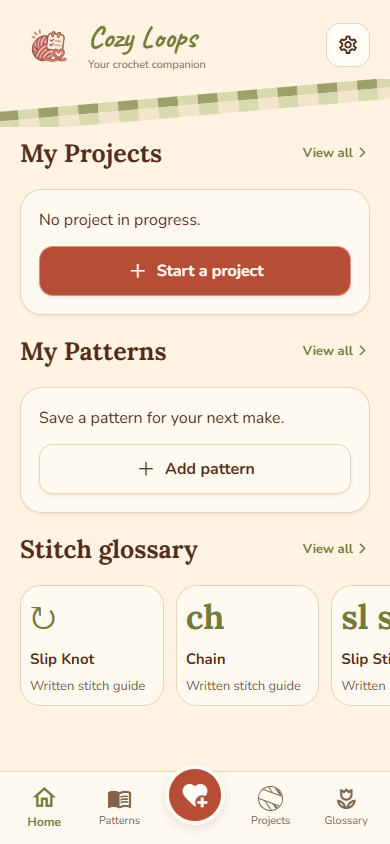
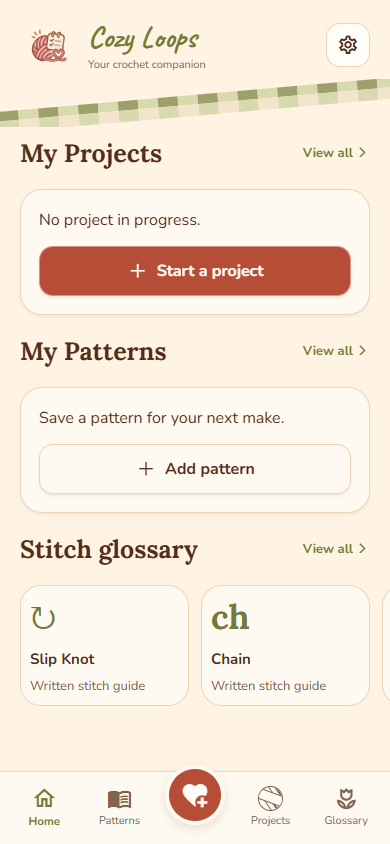
docs: update architecture and acceptance checks for PDF modifications

Changed region(s): [[0.4615, 0.6777, 1.0, 0.8318], [0.0615, 0.9242, 0.1538, 0.9858]]

diff --git a/docs/TESTING.md b/docs/TESTING.md
@@ -2,9 +2,9 @@
 
 Run on both an iOS and Android device or simulator. Record device, OS, app build, result, and any issue. These are checks to perform, not claims of completed device testing.
 
-1. Fresh installation: Home, Patterns, Add pattern, Projects, and Glossary tabs. Settings opens from Home. Projects opens a searchable In progress/Finished library. Continue opens the selected project counter within that tab; Back to library returns to the project list.
+1. Fresh installation: Home, Patterns, Add pattern, Projects, and Glossary tabs. Settings opens from Home. Projects opens a searchable In progress/Finished library. Continue opens the selected project counter within that tab; The icon-only Back returns to Projects, or Home when opened with Home Continue. Browser/system Back should respect the same origin.
 2. Add a pattern manually, with two or more rows. Required fields reject a ready save, while Save draft accepts incomplete content. Reopen the draft and finish it.
-3. Paste multiline instructions. Review one row per nonempty line; correct, merge, split, reorder, remove, and add rows. Confirm replacement of existing rows. Save and edit again.
+3. Paste multiline instructions. Review one row per nonempty line; correct, duplicate, collapse, remove, and add rows. Only one row expands at a time; saved rows begin collapsed. Confirm replacement of existing rows. Save and edit again.
 4. Attempt Back and Android system Back with unsaved changes. Cancel keeps edits; confirming discard exits. Browser refresh should also warn when applicable.
 5. Attach a photo; deny or cancel picking. Verify friendly errors and persistent photos after a native restart.
 6. Start a project. Tap + rapidly 100 times. Without a target, verify exactly 100 recorded stitches; with a target, verify the counter stops at that target. A zero target disables increment immediately. Decrement stops at zero. Repeated Undo restores the preceding actions until the saved history (maximum 100) is exhausted.
@@ -12,7 +12,7 @@ Run on both an iOS and Android device or simulator. Record device, OS, app build
 8. Wait for 'Saved', terminate the app, reopen, and Resume. Verify row, counts, flags, and Undo. Repeat with two projects and independent counts.
 9. Edit or delete the source pattern. Ongoing projects retain their original instructions and photos.
 10. Complete the last row: project stays active until Finish Project confirmation. Cancel leaves it active. Finish moves it to Completed Projects; details remain accessible.
-11. Open a stitch lookup from Work Mode. Search names and US/UK abbreviations, open a guide, Back to lookup, Return to Work Mode. Progress is unchanged.
+11. Open Glossary from the tab bar. Search names and US/UK abbreviations, open a guide, and use the icon-only Back. Return to your counter and verify unchanged progress.
 12. Change terminology and haptic preferences, restart, and verify persistence. Written patterns never change with the terminology setting.
 13. Test airplane mode after installation. All counting, storage, fonts, local photos, and glossary text remain usable. Expo development mode still requires its JS bundle from Metro; use an installed build to establish offline behavior.
 14. Check small screens, 390 px width, large accessibility text, VoiceOver/TalkBack, keyboard-visible forms, safe areas, and 48 dp controls. Counter controls should remain reachable.
@@ -25,7 +25,11 @@ Run on both an iOS and Android device or simulator. Record device, OS, app build
 
 
 20. Save colors, multiple hooks, other tools, part labels and per-row color/hook selections. Reopen and restart; verify details and counters use the saved materials. Editing the source pattern must not change existing project snapshots.
-21. Favorite and unfavorite patterns, restart, and combine favorites with title, draft/ready, and difficulty filters. Verify empty search results and a single grid item remain usable.
+21. Favorite and unfavorite patterns, restart, and combine favorites with title, draft/ready, and status filters. Verify empty search results and a single grid item remain usable.
 22. Open legacy `/projects`, `/project/[id]`, and `/pattern/new` links. Verify the corresponding library, selected counter, and Add tab.
 23. Load a legacy active project with an over-target count and a single Undo snapshot. Confirm the original raw data is backed up before a new write, then verify clamped progress and repeated Undo after restart. Finished legacy projects remain unchanged.
 24. Check reduced motion, tab animations, tab focus on web, native keyboard avoidance, and launcher/splash branding in an installed preview build.
+
+25. Import a valid text PDF on web and both native development builds. Review text, cancel, then import and confirm replacement; verify no automatic save. Check a locked PDF, scanned/image-only PDF, corrupt file, empty file, over-20 MB file, over-100-page PDF, and text over 200,000 characters. Each must show a useful error while keeping existing rows. Try cancelling picking, closing during extraction, and switching import methods. Expo Go must explain the development build requirement and keep Paste Text usable.
+26. Duplicate a row with part, stitch target, yarn color, and hook size. Verify a fresh row ID below the source and sequential numbering. New/duplicate rows expand; Done collapses. Save/reopen starts collapsed. Ready-save validation expands the first empty row. Existing round patterns remain rounds; new patterns use rows. Difficulty must have no visible control or badge while legacy stored metadata survives.
+27. Home Continue fills the card width, centers its text, and has no arrow. The pattern carousel shows exactly two complete cards at rest. Patterns, Projects, and Glossary share header spacing and equal grid-card dimensions. Repeat at 320/390/650 px and with increased text size; no horizontal page overflow.

diff --git a/docs/UI_REDESIGN.md b/docs/UI_REDESIGN.md
@@ -14,24 +14,26 @@ See [design-system decisions](DESIGN_SYSTEM.md) for token mapping, component con
 
 - Five animated navbar destinations: Home, Patterns, Add pattern, Projects, Glossary. Settings is accessible from Home.
 - Branded Home header, larger featured project image, project description, and horizontal pattern/glossary shelves.
-- Two-column virtualized libraries with search; pattern status/difficulty filters and persisted favorites; active/finished project selection.
+- Two-column virtualized libraries with search; pattern status filters and persisted favorites; active/finished project selection.
 - Materials, colors, multiple hooks, tools, part labels, and row-specific selections in the editor, details, and project snapshots. Existing drafts, import review, row tools, and save-error recovery remain available.
-- Projects opens a library; Continue opens its selected nested counter, and Back returns to that library. Legacy project and new-pattern links redirect to the new destinations.
+- Projects opens a library; Continue opens its selected nested counter, and Back returns to Home or Projects according to the entry point. Legacy project and new-pattern links redirect to the new destinations.
 - Target-limited counting and persisted repeated Undo (latest 100 supported actions). Legacy active counts and histories are normalized with an original-data backup before subsequent writes. Finished projects remain unchanged.
 - The supplied artwork is bundled for Home, launcher, splash, and favicon. No example patterns or projects are inserted into initial app data.
 
 ## Verification
 
 - Lint and typecheck passed.
-- All 18 pure-domain tests passed, including targets, zero targets, repeated Undo, history limits, migration, materials, snapshot isolation, serialization, and failed/interrupted saves.
+- All 20 pure-domain tests passed, including targets, zero targets, repeated Undo, history limits, migration, materials, snapshot isolation, serialization, and failed/interrupted saves.
 - iOS, Android, and web export passed. Export proves bundling, not native rendering or runtime interaction.
 - Full browser checks passed for five tabs, favorites, pattern materials, selected nested counters, target limits, repeated Undo after reload, Back to library, and a 320 px counter layout. Project search, glossary search/guide navigation, editor save/reopen, per-row materials, reviewed import, row deletion, and draft saving passed with no page errors. Screenshot checks used isolated fixture data, never the user's browser profile.
-- The final production-build pass also verified cancel/discard protection after saving, legacy project/new-pattern links, finishing a project, Finished filtering, Home-to-Settings access, and the original-storage backup. The production preview runs at http://localhost:8084.
+- The final production-build pass also verified cancel/discard protection after saving, legacy project/new-pattern links, finishing a project, Finished filtering, Home-to-Settings access, and the original-storage backup. The production preview runs at http://localhost:8088.
 
-The SDK 58 development renderer retained stale module IDs after hot updates during verification. The final checks used `npx expo export --platform all` followed by `npx expo serve --port 8084`, avoiding the development renderer's cache. A development server showing an unknown-module error should be restarted with `npx expo start --clear`.
+The SDK 58 development renderer retained stale module IDs after hot updates during verification. The final checks used `npx expo export --platform all` followed by `npx expo serve --port 8088`, avoiding the development renderer's cache. A development server showing an unknown-module error should be restarted with `npx expo start --clear`.
 
 ## App screenshots
 
 [Home](ui-home-mobile.png), [Patterns](ui-patterns-mobile.png), [Projects](ui-projects-mobile.png), [Counter](ui-count-mobile.png), [Editor](ui-editor-top.png), [Glossary](ui-glossary-mobile.png), and [Stitch guide](ui-stitch-guide.png).
 
 Native iOS/Android devices, VoiceOver/TalkBack, system large text, keyboard/insets, photo permissions, and installed launcher/splash behavior require device verification. See [manual acceptance checks](TESTING.md).
+
+The later Cozy Stitch modification brief is implemented in [PDF_MODIFICATIONS.md](PDF_MODIFICATIONS.md), including reviewed local PDF import, row duplication/collapsing, simplified controls, and Home-origin navigation. The app screenshots below were refreshed after those browser checks.

diff --git a/README.md b/README.md
@@ -31,7 +31,7 @@ The app uses a feature-first structure with thin Expo Router routes:
 - `src/providers`: application initialization, shared state, hydration, and save status.
 - `src/services/storage`: validation, migration, and serialized persistence.
 - `src/theme`, `src/types`, and `src/utils`: design tokens/fonts, shared contracts, and helpers.
-- `tests/unit` and `tests/helpers`: progress/storage suites and shared fixtures.
+- `tests/unit` and `tests/helpers`: progress, storage, and row editing suites with shared fixtures.
 
 See [the architecture guide](docs/ARCHITECTURE.md) for the folder tree, placement rules, and import conventions.
 
@@ -41,9 +41,9 @@ Each project copies its pattern when it starts. Editing the original changes fut
 
 ## Features
 
-Create and search patterns, save incomplete drafts, paste and manually review instructions, attach local photos, start independent projects, count stitches, complete rows, undo the latest supported action after reopening, resume saved progress, finish projects, and browse 12 glossary guides with US/UK naming preferences. Patterns support favorites, yarn colors, multiple hook sizes, other tools, and part labels with per-row material choices. The Projects tab provides searchable active and finished libraries, with counters nested beneath it.
+Create and search patterns, save incomplete drafts, paste text or import a local text PDF for review, duplicate and collapse instruction rows, attach local photos, start independent projects, count stitches, complete rows, undo the latest supported action after reopening, resume saved progress, finish projects, and browse 12 glossary guides with US/UK naming preferences. Patterns support favorites, yarn colors, multiple hook sizes, other tools, and part labels with per-row material choices. The Projects tab provides searchable active and finished libraries, with counters nested beneath it.
 
-Patterns use explicit row or round instructions; no notation is interpreted automatically. Search is local. No account or network service is used by the app.
+New patterns use rows; saved round patterns and project snapshots retain their terminology. Patterns use explicit written instructions; no notation is interpreted automatically. Search is local. No account or network service is used by the app.
 
 ## Storage and known limits
 
@@ -58,3 +58,17 @@ See [manual acceptance checks](docs/TESTING.md) for device, accessibility, resta
 ## Redesign
 
 See [design sources and verification](docs/UI_REDESIGN.md) and the [shared design system](docs/DESIGN_SYSTEM.md). Existing storage is backed up under `cozy-stitch:data:v1:before-redesign` before migrated data can be written. Active legacy counts and Undo snapshots are capped to explicit row targets; completed records are preserved.
+
+## PDF import
+
+Open the editor import button, choose Paste Text or Import PDF, then review the extracted text. Each nonempty reviewed line becomes one row. Import asks before replacing written rows and never saves the pattern automatically. Text PDFs are processed locally, with no upload or OCR. Limits: 20 MB, 100 pages, and 200,000 characters. Locked, empty, scanned, and invalid PDFs show errors; use Paste Text when extraction is unavailable.
+
+Native PDF import requires a development build because Expo Go does not include the PDF extraction module. Paste Text remains available in Expo Go. `eas.json` includes internal development and iOS simulator profiles:
+
+```sh
+npx eas-cli@latest build --profile development --platform android
+npx eas-cli@latest build --profile development --platform ios
+npx expo start --dev-client
+```
+
+EAS may first require account/project configuration and signing credentials. Native compilation and device PDF extraction still require verification; JavaScript exports do not establish that the native module works on a device. Browser imports use PDF.js with a local worker copied into `public/` during `npm install`; no CDN is used. Run `npm run postinstall` if that generated worker is missing.

diff --git a/docs/PDF_MODIFICATIONS.md b/docs/PDF_MODIFICATIONS.md
@@ -1,0 +1,21 @@
+# Cozy Stitch modification implementation
+
+The shared page header and library cards now provide consistent spacing, typography, image sizing, and card bodies. Back controls use the same accessible left arrow with a 44-point minimum target.
+
+Home opens the Projects tab directly. Continue opens the selected counter with its Home origin, uses centered text without an arrow, and fills the card width. The pattern shelf fits two complete cards at rest and scrolls horizontally.
+
+The counter exposes Minus and Undo, retains counts when revisiting rows, guards rapid row completion, and keeps explicit project finishing. The Stitch Guide and Project Tools panels have been removed. Patterns and completed projects remain independent records.
+
+New patterns use rows. Legacy rounds, difficulty metadata, and existing project snapshots are retained without exposing difficulty controls. Saved rows start collapsed; new and duplicated rows expand. Duplicate copies all row details below the original with a fresh ID and sequential numbering. Ready-save validation expands the first empty instruction.
+
+The import modal offers Paste Text and Import PDF, local extraction, editable review, replacement confirmation, loading, review-ready feedback, and errors. Import never automatically saves. PDF limits are 20 MB, 100 pages, and 200,000 characters; image-only PDFs require pasted instructions. PDF.js is loaded on demand on web and uses a locally generated worker. Native extraction uses the installed native module and needs a development build; Expo Go retains Paste Text and displays an explanation. Development build profiles are in `eas.json`.
+
+## Verification
+
+- Unit tests: 20 passing, including row duplication, imported text validation, rapid counts, Undo, snapshots, and persistence.
+- TypeScript: passed.
+- ESLint with zero warnings: passed.
+- iOS, Android, and web JavaScript exports: passed.
+- Chrome at 390 and 320 px: passed Home origin and browser Back, full-width Continue, counter increments/decrement/target cap, Undo after reload, library search/favorites, glossary navigation, editor save/reopen, duplication with materials, collapsed rows, reviewed imports, deletion, unsaved-edit cancellation, and retained pattern/completed project. No page errors occurred.
+- Browser PDF import: the supplied modification PDF extracted successfully into editable review. Corrupt, image-only, over-100-page, and over-20 MB fixtures were rejected without saving or replacing rows. Text size validation is also covered by unit tests.
+- Native compilation, device extraction, VoiceOver/TalkBack, and large system text still require the device checks in [TESTING.md](TESTING.md). No native device execution is claimed by JavaScript export success.

diff --git a/docs/ARCHITECTURE.md b/docs/ARCHITECTURE.md
@@ -12,7 +12,9 @@ src/
       components/         Home header
       screens/            Home screen
     patterns/
-      model/              Pure pattern validation
+      model/              Pure pattern validation and row transforms
+      components/         Review/import modal
+      services/           Native and web local PDF adapters
       screens/            Library, details, and editor screens
     projects/
       components/         Project card
